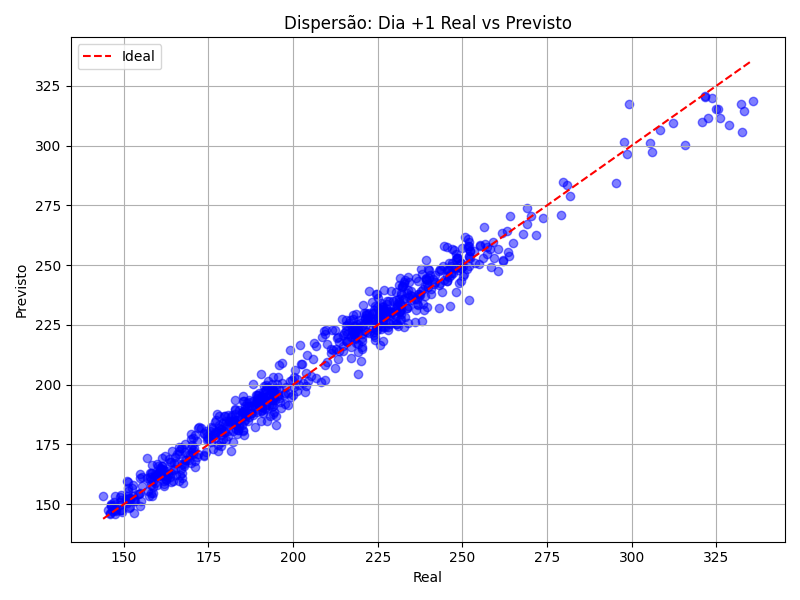
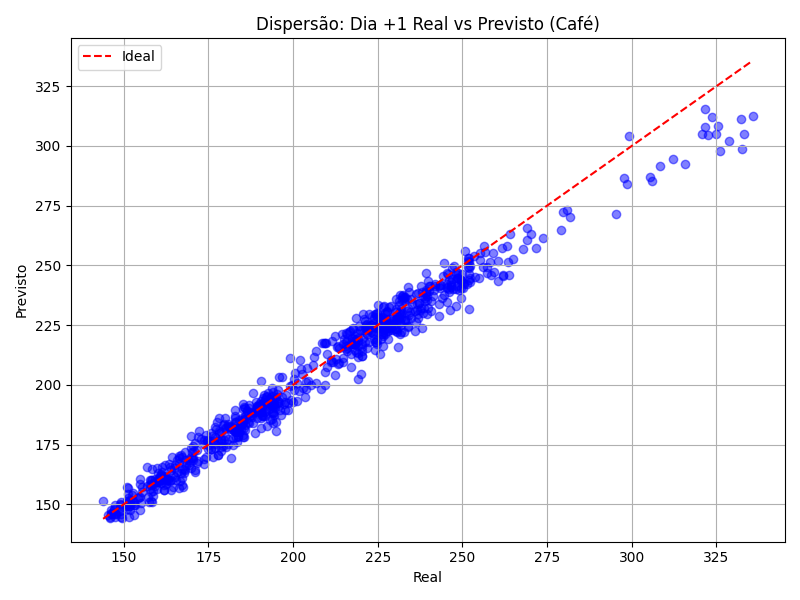
atualização do codigo main para melhorar a visualização dos graficos e adicionar um bom log para facilitar o debug

diff --git a/rnn_coffe_predictor/main.py b/rnn_coffe_predictor/main.py
@@ -7,111 +7,170 @@ from sklearn.preprocessing import MinMaxScaler
 from sklearn.metrics import mean_squared_error, mean_absolute_error, r2_score
 from tensorflow.keras.models import Sequential
 from tensorflow.keras.layers import LSTM, Dense, Dropout
+import logging
+
+# ========== Configuração do Logging ==========
+os.makedirs("logs", exist_ok=True)
+log_file_path = "logs/modelo_previsao.log"
+
+logging.basicConfig(level=logging.INFO, # Mude para logging.DEBUG para ver mais detalhes
+                    format='%(asctime)s - %(levelname)s - %(message)s',
+                    handlers=[
+                        logging.FileHandler(log_file_path),
+                        logging.StreamHandler()
+                    ])
+
+logging.info("Iniciando execução do script de previsão de commodities.")
 
 # ========== 1. DOWNLOAD DOS DADOS ==========
-# Tickers:
-# Café: 'KC=F'
-# Petróleo: 'CL=F'
-# Milho: 'ZC=F'
-
+logging.info("Iniciando download dos dados históricos de commodities.")
 start_date = "2010-01-01"
 end_date = "2024-12-31"
 
-df_cafe = yf.download('KC=F', start=start_date, end=end_date)[['Close']].rename(columns={'Close': 'Cafe'})
-df_petroleo = yf.download('CL=F', start=start_date, end=end_date)[['Close']].rename(columns={'Close': 'Petroleo'})
-df_milho = yf.download('ZC=F', start=start_date, end=end_date)[['Close']].rename(columns={'Close': 'Milho'})
+try:
+    df_cafe = yf.download('KC=F', start=start_date, end=end_date)[['Close']].rename(columns={'Close': 'Cafe'})
+    df_petroleo = yf.download('CL=F', start=start_date, end=end_date)[['Close']].rename(columns={'Close': 'Petroleo'})
+    df_milho = yf.download('ZC=F', start=start_date, end=end_date)[['Close']].rename(columns={'Close': 'Milho'})
+    logging.info("Download de dados concluído com sucesso.")
+except Exception as e:
+    logging.error(f"Erro ao baixar dados do Yahoo Finance: {e}. Verifique sua conexão com a internet ou os tickers.")
+    exit()
 
 # ========== 2. UNIFICAÇÃO E FEATURES ADICIONAIS ==========
-# Junta os dados em um único DataFrame com o mesmo índice
+logging.info("Unificando DataFrames e calculando features adicionais.")
 df = df_cafe.join([df_petroleo, df_milho], how='inner')
 
-# Calcula as taxas de variação diária
+# Calcula as taxas de variação diária para todas as commodities
 df['Var_Cafe'] = df['Cafe'].pct_change()
 df['Var_Petroleo'] = df['Petroleo'].pct_change()
+df['Var_Milho'] = df['Milho'].pct_change()
 
-# Simula dados climáticos (exemplo)
-# Em um caso real, esses dados viriam de uma API meteorológica
-np.random.seed(42)
-df['Clima'] = np.random.normal(loc=0.5, scale=0.1, size=len(df))
-
-# Remove linhas com valores NaN
+# Remove linhas com valores NaN que surgem após pct_change ou junção
+initial_rows = len(df)
 df.dropna(inplace=True)
+logging.info(f"Removidas {initial_rows - len(df)} linhas com valores NaN.")
+logging.info(f"DataFrame final com {len(df)} linhas e {len(df.columns)} colunas.")
+
+# --- CORREÇÃO: GARANTIR NOMES DE COLUNAS COMO STRINGS SIMPLES ---
+df.columns = [col[0] if isinstance(col, tuple) else col for col in df.columns]
+logging.info(f"Nomes das colunas ajustados para: {df.columns.tolist()}")
+# --- FIM DA CORREÇÃO ---
+
+# --- VERIFICAÇÕES CRÍTICAS ---
+if df.empty:
+    logging.error("O DataFrame está vazio após a unificação e remoção de NaN. Não há dados para processar.")
+    exit()
+
+if 'Cafe' not in df.columns:
+    logging.error("A coluna 'Cafe' não foi encontrada no DataFrame. Verifique os nomes das colunas e o processo de download.")
+    logging.debug(f"Colunas presentes no DataFrame: {df.columns.tolist()}")
+    exit()
+# --- FIM DAS VERIFICAÇÕES CRÍTICAS ---
 
 # ========== 3. NORMALIZAÇÃO ==========
+logging.info("Iniciando normalização dos dados (MinMaxScaler).")
 scaler = MinMaxScaler()
 scaled_data = scaler.fit_transform(df)
 
-# Armazena colunas para referência futura
 feature_names = df.columns.tolist()
+logging.info(f"Colunas usadas para treinamento (features) após ajuste: {feature_names}")
+logging.debug(f"Primeiras 5 linhas do scaled_data:\n{scaled_data[:5]}")
+logging.info("Normalização concluída.")
 
-# ========== 4. CRIAÇÃO DAS JANELAS (30 DIAS → 5 DIAS) ==========
-window_size = 30
+# ========== 4. CRIAÇÃO DAS JANELAS (5 DIAS DE HISTÓRICO -> 5 DIAS DE PREVISÃO) ==========
+logging.info("Criando janelas de dados para o modelo LSTM.")
+window_size = 5
 forecast_horizon = 5
 
 X, y = [], []
+cafe_feature_index = feature_names.index('Cafe')
+
 for i in range(len(scaled_data) - window_size - forecast_horizon):
-    X.append(scaled_data[i:i+window_size])  # shape: (30, n_features)
-    y.append(scaled_data[i+window_size:i+window_size+forecast_horizon, 0])  # Apenas preço do café (primeira coluna)
+    X.append(scaled_data[i:i+window_size])
+    y.append(scaled_data[i+window_size:i+window_size+forecast_horizon, cafe_feature_index])
 
-X = np.array(X)  # (amostras, 30, n_features)
-y = np.array(y)  # (amostras, 5)
+X = np.array(X)
+y = np.array(y)
+logging.info(f"Janelas criadas. X shape: {X.shape}, y shape: {y.shape}")
 
-# ========== 5. DIVISÃO TREINO/TESTE ==========
-split_index = int(0.8 * len(X))
-X_train, X_test = X[:split_index], X[split_index:]
-y_train, y_test = y[:split_index], y[split_index:]
+if X.shape[0] == 0 or y.shape[0] == 0:
+    logging.error("Não há amostras suficientes para criar janelas após a filtragem. Verifique o tamanho dos dados e os parâmetros window_size/forecast_horizon.")
+    exit()
+
+# ========== 5. DIVISÃO TREINO/VALIDAÇÃO/TESTE ==========
+logging.info("Dividindo os dados em conjuntos de treino, validação e teste (60/20/20).")
+total_samples = len(X)
+train_split = int(0.6 * total_samples)
+val_split = int(0.8 * total_samples)
+
+X_train, y_train = X[:train_split], y[:train_split]
+X_val, y_val = X[train_split:val_split], y[train_split:val_split]
+X_test, y_test = X[val_split:], y[val_split:]
+
+logging.info(f"Total de amostras: {total_samples}")
+logging.info(f"Amostras de treino: {len(X_train)}")
+logging.info(f"Amostras de validação: {len(X_val)}")
+logging.info(f"Amostras de teste: {len(X_test)}")
 
 # ========== 6. MODELO LSTM ==========
-# Arquitetura com uma camada LSTM maior e dropout para evitar overfitting
+logging.info("Construindo o modelo LSTM.")
 model = Sequential()
 model.add(LSTM(128, return_sequences=True, input_shape=(window_size, X.shape[2])))
 model.add(Dropout(0.2))
 model.add(LSTM(64))
-model.add(Dense(forecast_horizon))  # Saída para 5 dias
+model.add(Dense(forecast_horizon))
 
 model.compile(optimizer='adam', loss='mse')
+model.summary()
+logging.info("Modelo LSTM compilado.")
 
 # ========== 7. TREINAMENTO ==========
-history = model.fit(X_train, y_train, epochs=25, batch_size=32, validation_split=0.1)
+logging.info("Iniciando treinamento do modelo LSTM (50 épocas).")
+history = model.fit(X_train, y_train, epochs=50, batch_size=32, validation_data=(X_val, y_val), verbose=1)
+logging.info("Treinamento do modelo concluído.")
 
 # ========== 8. PREVISÃO ==========
+logging.info("Realizando previsões no conjunto de teste.")
 predicted = model.predict(X_test)
+logging.info("Previsões concluídas.")
 
 # ========== 9. DESNORMALIZAÇÃO ==========
-# Inversão apenas da primeira feature (preço do café)
-# Cafe é a primeira coluna do DataFrame original, logo:
-cafe_index = 0
+logging.info("Desnormalizando os resultados das previsões (apenas preço do Café).")
+cafe_index = feature_names.index('Cafe')
 
-# Recria o scaler só com a coluna 'Cafe'
-scaler_cafe = MinMaxScaler()
-scaler_cafe.min_ = scaler.min_[cafe_index:cafe_index+1]
-scaler_cafe.scale_ = scaler.scale_[cafe_index:cafe_index+1]
+scaler_cafe_only = MinMaxScaler()
+scaler_cafe_only.min_ = scaler.min_[cafe_index:cafe_index+1]
+scaler_cafe_only.scale_ = scaler.scale_[cafe_index:cafe_index+1]
+scaler_cafe_only.data_min_ = scaler.data_min_[cafe_index:cafe_index+1]
+scaler_cafe_only.data_max_ = scaler.data_max_[cafe_index:cafe_index+1]
+scaler_cafe_only.data_range_ = scaler.data_range_[cafe_index:cafe_index+1]
 
-# Desnormaliza
-y_test_rescaled = scaler_cafe.inverse_transform(y_test)
-predicted_rescaled = scaler_cafe.inverse_transform(predicted)
+y_test_rescaled = scaler_cafe_only.inverse_transform(y_test)
+predicted_rescaled = scaler_cafe_only.inverse_transform(predicted)
+logging.info("Desnormalização concluída.")
 
-# ========== 10. ORGANIZAÇÃO DAS SAÍDAS ==========
+# ========== 10. ORGANIZAÇÃO DAS SAÍDAS (para métricas e gráficos específicos) ==========
 y_test_day1 = y_test_rescaled[:, 0]
 y_pred_day1 = predicted_rescaled[:, 0]
 y_test_day5 = y_test_rescaled[:, 4]
 y_pred_day5 = predicted_rescaled[:, 4]
 
 # ========== 11. CRIAÇÃO DO DIRETÓRIO DE GRÁFICOS ==========
+logging.info("Criando diretório para salvar gráficos.")
 os.makedirs("graficos", exist_ok=True)
 
-# Função auxiliar para salvar gráficos
 def salvar_grafico(nome):
     plt.tight_layout()
     plt.savefig(f'graficos/{nome}')
-    plt.show()
+    plt.close()
 
 # ========== 12. GRÁFICO DE DISPERSÃO: DIA +1 ==========
+logging.info("Gerando gráfico de dispersão para o Dia +1.")
 plt.figure(figsize=(8, 6))
 plt.scatter(y_test_day1, y_pred_day1, alpha=0.5, color='blue')
 plt.plot([min(y_test_day1), max(y_test_day1)],
          [min(y_test_day1), max(y_test_day1)], 'r--', label='Ideal')
-plt.title('Dispersão: Dia +1 Real vs Previsto')
+plt.title('Dispersão: Dia +1 Real vs Previsto (Café)')
 plt.xlabel('Real')
 plt.ylabel('Previsto')
 plt.legend()
@@ -119,40 +178,20 @@ plt.grid(True)
 salvar_grafico('dispersao_dia_1.png')
 
 # ========== 13. GRÁFICO DE DISPERSÃO: DIA +5 ==========
+logging.info("Gerando gráfico de dispersão para o Dia +5.")
 plt.figure(figsize=(8, 6))
 plt.scatter(y_test_day5, y_pred_day5, alpha=0.5, color='green')
 plt.plot([min(y_test_day5), max(y_test_day5)],
          [min(y_test_day5), max(y_test_day5)], 'r--', label='Ideal')
-plt.title('Dispersão: Dia +5 Real vs Previsto')
+plt.title('Dispersão: Dia +5 Real vs Previsto (Café)')
 plt.xlabel('Real')
 plt.ylabel('Previsto')
 plt.legend()
 plt.grid(True)
 salvar_grafico('dispersao_dia_5.png')
 
-# ========== 14. COMPARAÇÃO TEMPORAL: DIA +1 ==========
-plt.figure(figsize=(12, 5))
-plt.plot(y_test_day1, label='Real (Dia +1)', color='blue')
-plt.plot(y_pred_day1, label='Previsto (Dia +1)', color='red', linestyle='--')
-plt.title('Comparação Temporal - Dia +1')
-plt.xlabel('Amostra')
-plt.ylabel('Preço')
-plt.legend()
-plt.grid(True)
-salvar_grafico('comparacao_temporal_dia_1.png')
-
-# ========== 15. COMPARAÇÃO TEMPORAL: DIA +5 ==========
-plt.figure(figsize=(12, 5))
-plt.plot(y_test_day5, label='Real (Dia +5)', color='blue')
-plt.plot(y_pred_day5, label='Previsto (Dia +5)', color='orange', linestyle='--')
-plt.title('Comparação Temporal - Dia +5')
-plt.xlabel('Amostra')
-plt.ylabel('Preço')
-plt.legend()
-plt.grid(True)
-salvar_grafico('comparacao_temporal_dia_5.png')
-
-# ========== 16. HISTÓRICO DE PERDA ==========
+# ========== 14. HISTÓRICO DE PERDA ==========
+logging.info("Gerando gráfico do histórico de perda (Loss).")
 plt.figure(figsize=(8, 5))
 plt.plot(history.history['loss'], label='Treinamento')
 plt.plot(history.history['val_loss'], label='Validação')
@@ -163,8 +202,50 @@ plt.legend()
 plt.grid(True)
 salvar_grafico('historico_perda.png')
 
+# ========== 15. NOVO GRÁFICO: COMPARAÇÃO TEMPORAL PARA DIA +1 E DIA +5 APENAS ==========
+logging.info("Gerando gráfico de comparação temporal para Dia +1 e Dia +5.")
+plt.figure(figsize=(15, 7))
+
+test_sample_indices = np.arange(len(y_test_rescaled))
+
+# Plot para Dia +1
+plt.plot(test_sample_indices, y_test_rescaled[:, 0], label='Real (Dia +1)', linestyle='-', color='blue')
+plt.plot(test_sample_indices, predicted_rescaled[:, 0], label='Previsto (Dia +1)', linestyle='--', color='red')
+
+# Plot para Dia +5
+plt.plot(test_sample_indices, y_test_rescaled[:, 4], label='Real (Dia +5)', linestyle='-', color='green')
+plt.plot(test_sample_indices, predicted_rescaled[:, 4], label='Previsto (Dia +5)', linestyle='--', color='orange')
+
+
+plt.title('Comparação Temporal - Previsões para Dia +1 e Dia +5 (Café)')
+plt.xlabel('Amostra de Teste')
+plt.ylabel('Preço do Café')
+plt.legend(loc='upper left', bbox_to_anchor=(1, 1))
+plt.grid(True)
+salvar_grafico('comparacao_temporal_dia_1_e_5.png') # Nome do arquivo alterado
+
+# ========== 16. NOVO GRÁFICO: DISPERSÃO PARA DIA +1 E DIA +5 APENAS ==========
+logging.info("Gerando gráfico de dispersão para Dia +1 e Dia +5 combinados.")
+plt.figure(figsize=(10, 8))
+
+# Concatena os dados do Dia +1 e Dia +5
+combined_y_test = np.concatenate((y_test_day1, y_test_day5))
+combined_y_pred = np.concatenate((y_pred_day1, y_pred_day5))
+
+plt.scatter(combined_y_test, combined_y_pred, alpha=0.5, color='purple')
+min_val = min(combined_y_test.min(), combined_y_pred.min())
+max_val = max(combined_y_test.max(), combined_y_pred.max())
+plt.plot([min_val, max_val], [min_val, max_val], 'r--', label='Ideal')
+plt.title('Dispersão: Previsões Dia +1 e Dia +5 (Real vs Previsto - Café)')
+plt.xlabel('Real')
+plt.ylabel('Previsto')
+plt.legend()
+plt.grid(True)
+salvar_grafico('dispersao_dia_1_e_5.png') # Nome do arquivo alterado
+
 # ========== 17. MÉTRICAS ==========
-print("\n========== MÉTRICAS DE DESEMPENHO ==========")
+logging.info("Calculando e exibindo métricas de desempenho.")
+print("\n========== MÉTRICAS DE DESEMPENHO (Preço do Café) ==========")
 
 print("\n--- Dia +1 ---")
 r2_day1 = r2_score(y_test_day1, y_pred_day1)
@@ -173,6 +254,7 @@ mse_day1 = mean_squared_error(y_test_day1, y_pred_day1)
 print(f'R²:  {r2_day1:.4f}')
 print(f'MAE: ${mae_day1:.4f}')
 print(f'MSE: ${mse_day1:.4f}')
+logging.info(f"Métricas Dia +1: R²={r2_day1:.4f}, MAE=${mae_day1:.4f}, MSE=${mse_day1:.4f}")
 
 print("\n--- Dia +5 ---")
 r2_day5 = r2_score(y_test_day5, y_pred_day5)
@@ -181,3 +263,17 @@ mse_day5 = mean_squared_error(y_test_day5, y_pred_day5)
 print(f'R²:  {r2_day5:.4f}')
 print(f'MAE: ${mae_day5:.4f}')
 print(f'MSE: ${mse_day5:.4f}')
+logging.info(f"Métricas Dia +5: R²={r2_day5:.4f}, MAE=${mae_day5:.4f}, MSE=${mse_day5:.4f}")
+
+# Metrics for all 5 days (average) - Isso aqui não é mais "todos os 5 dias", mas sim uma média do dia 1 e 5 combinados para a dispersão
+# Renomeando para refletir que a métrica é para o conjunto combinado de Dia +1 e Dia +5
+print("\n--- Média para Dia +1 e Dia +5 combinados ---")
+r2_combined_days = r2_score(combined_y_test, combined_y_pred)
+mae_combined_days = mean_absolute_error(combined_y_test, combined_y_pred)
+mse_combined_days = mean_squared_error(combined_y_test, combined_y_pred)
+print(f'R² (Combinado):  {r2_combined_days:.4f}')
+print(f'MAE (Combinado): ${mae_combined_days:.4f}')
+print(f'MSE (Combinado): ${mse_combined_days:.4f}')
+logging.info(f"Métricas Combinadas Dia +1 e Dia +5: R²={r2_combined_days:.4f}, MAE=${mae_combined_days:.4f}, MSE=${mse_combined_days:.4f}")
+
+logging.info("Execução do script concluída.")
